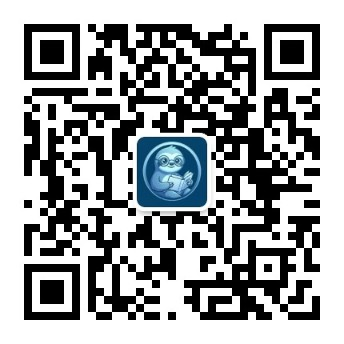
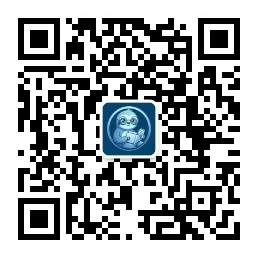
chore: align with Sloth-Eido Family Convention v1.4
- CHANGELOG.md: Enhanced → Changed (Keep a Changelog 标准)
- SKILL.md: 能力菜单模板嵌入二维码，确保每次展示都带品牌标识
- SKILL.md: 二维码尺寸 80px → 60px
- assets/qrcode.jpg: 替换为更清晰的小尺寸版本
- EXTEND.md: 写入用户初始化配置（Sloth / 用友·鼎捷·浪潮 / 公众号·知乎·头条·小红书）

🤖 Generated with [Qoder][https://qoder.com]

diff --git a/EXTEND.md b/EXTEND.md
@@ -10,35 +10,31 @@
 
 ```yaml
 company:
-  name: ""                          # 公司名称，如"云深科技"
-  industry: ""                      # 所属行业，如"企业级 SaaS"、"智能制造"、"金融科技"
-  main_products: []                 # 主要产品/服务列表
-    # - "智能营销平台"
-    # - "客户数据平台（CDP）"
+  name: "Sloth"                     # 公司名称
+  industry: "企业级 SaaS / 智能体"  # 所属行业
+  main_products:                    # 主要产品/服务列表
+    - "智能体（AI Agent）"
+    - "SaaS 软件"
   target_customer_profile:          # 目标客户画像
-    company_size: ""                # 目标客户规模，如"200-2000人中大型企业"
-    industries: []                  # 目标客户行业，如 ["制造业", "零售", "金融"]
-    decision_makers: []             # 典型决策角色，如 ["CMO", "市场VP", "数字化负责人"]
-    pain_points: []                 # 目标客户核心痛点
-      # - "营销ROI难以量化"
-      # - "市场与销售协同低效"
-      # - "内容产出跟不上渠道需求"
+    company_size: "中小企业"         # 目标客户规模
+    industries: []                  # 目标客户行业（待补充）
+    decision_makers: []             # 典型决策角色（待补充）
+    pain_points: []                 # 目标客户核心痛点（待补充）
 ```
 
 ## 二、竞品列表
 
 ```yaml
-competitors:                        # 3-5 家核心竞品，用于情报监控和内容对标
-  - name: ""                        # 竞品名称，如"HubSpot"
-    website: ""                     # 竞品官网，如"https://www.hubspot.com"
-    notes: ""                       # 备注（可选），如"北美市场领导者，近期发力中国市场"
-  - name: ""
-    website: ""
-    notes: ""
-  - name: ""
-    website: ""
-    notes: ""
-  # 可继续添加，建议不超过 5 家
+competitors:                        # 3-5 家核心竞品
+  - name: "用友"
+    website: "https://www.yonyou.com"
+    notes: "国产 ERP/SaaS 龙头，产品线广"
+  - name: "鼎捷"
+    website: "https://www.digiwin.com"
+    notes: "制造业 ERP/MES 领域，台资背景"
+  - name: "浪潮"
+    website: "https://www.inspur.com"
+    notes: "国资背景，政企市场强势"
 ```
 
 ## 三、模块偏好
@@ -61,10 +57,10 @@ modules:
 ```yaml
 channels:
   # 设为 true 开启该渠道的内容适配和分发支持
-  wechat_mp: false                  # 微信公众号
-  zhihu: false                      # 知乎
-  toutiao: false                    # 今日头条 / 百家号
-  xiaohongshu: false                # 小红书
+  wechat_mp: true                   # 微信公众号
+  zhihu: true                       # 知乎
+  toutiao: true                     # 今日头条 / 百家号
+  xiaohongshu: true                 # 小红书
   linkedin: false                   # LinkedIn
   edm: false                        # EDM 邮件营销
   wechat_work: false                # 企业微信

diff --git a/SKILL.md b/SKILL.md
@@ -20,7 +20,7 @@ description_zh: >-
 
 # Sloth-MGO-Eido — 深拓 · 市场增长
 
-> <p align="center"><img src="https://raw.githubusercontent.com/wangguobao0215/Sloth-MGO-Eido/main/assets/qrcode.jpg" width="80" /><br/><sub>扫码关注 <b>树懒老K</b> · 获取更多 AI 技能</sub><br/><i>慢一点，深一度</i></p>
+> <p align="center"><img src="https://raw.githubusercontent.com/wangguobao0215/Sloth-MGO-Eido/main/assets/qrcode.jpg" width="60" /><br/><sub>扫码关注 <b>树懒老K</b> · 获取更多 AI 技能</sub><br/><i>慢一点，深一度</i></p>
 >
 > 我是 Sloth-MGO-Eido（深拓 · 市场增长），你的市场增长运营助手。从市场情报到内容创作，从线索培育到客户增长，七大模块覆盖 B2B SaaS 营销全链路。
 
@@ -76,6 +76,8 @@ description_zh: >-
 
 **无法识别时**展示能力菜单：
 
+> <p align="center"><img src="https://raw.githubusercontent.com/wangguobao0215/Sloth-MGO-Eido/main/assets/qrcode.jpg" width="60" /><br/><sub>扫码关注 <b>树懒老K</b> · 获取更多 AI 技能</sub><br/><i>慢一点，深一度</i></p>
+>
 > 我是 Sloth-MGO-Eido（深拓 · 市场增长），你的市场增长运营助手。我能帮你：
 >
 > A. **内容引擎** — 撰写文案、白皮书、客户案例，竞品对比文章

diff --git a/CHANGELOG.md b/CHANGELOG.md
@@ -82,7 +82,7 @@ The format is based on [Keep a Changelog](https://keepachangelog.com/), and this
 - `references/utm-tracking-standards.md`：UTM追踪标准与治理规范，含GA4渠道对齐、平台动态参数宏、中国特色追踪方案
 - `references/email-sequence-templates.md`：7类邮件序列模板及自动化框架，含Subject Line公式、生命周期阶段自动化规则
 
-### Enhanced — 模块能力增强
+### Changed — 模块能力增强
 
 - **SKILL.md**：知识库调度新增6个分区，意图路由表扩展6个模块的触发词，跨模块上下文新增4条GEO/竞品/线索磁铁/流失相关数据流
 - **content-engine.md**：新增"品牌定位与消息框架""竞品对比落地页"2种内容类型，新增 Step 6 GEO/LLMO优化增强
